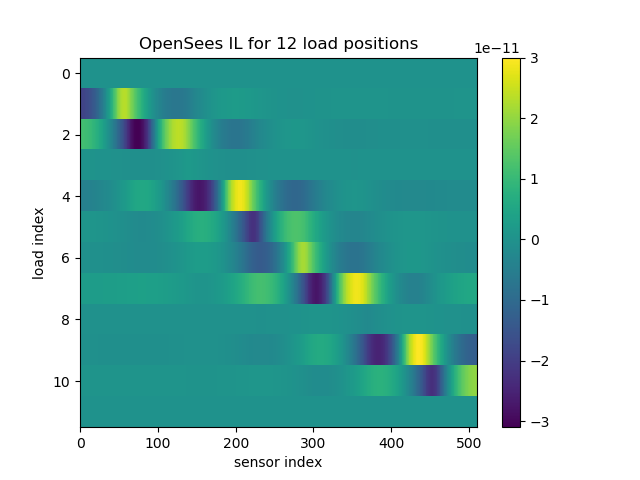
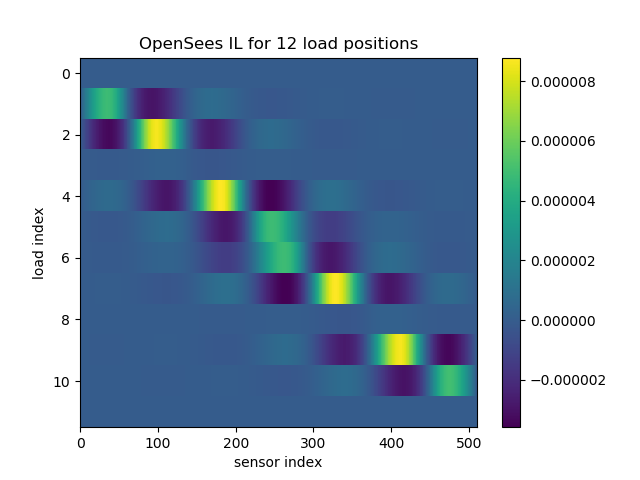
Influence line plots

diff --git a/code/fem/responses/il.py b/code/fem/responses/il.py
@@ -3,7 +3,6 @@ from typing import List
 
 import matplotlib.pyplot as plt
 import numpy as np
-from matplotlib.ticker import ScalarFormatter
 
 from config import bridge_705_config, Config
 from fem.params import ExptParams, FEMParams
@@ -45,14 +44,17 @@ class ILMatrix:
         if id_ in c.il_matrices:
             return c.il_matrices[id_]
 
-        # Else calculate, keep a reference and return.
+        # Determine simulation parameters.
+        # If save_all is true pass all response types.
+        response_types=(
+            [rt for rt in ResponseType] if save_all else [response_type])
         expt_params = ExptParams([
             FEMParams(
                 loads=[Load(x_frac, c.il_unit_load_kn)],
-                # If save_all is true pass all response types.
-                response_types=[rt for rt in ResponseType] if save_all
-                               else [response_type])
+                response_types=response_types)
             for x_frac in np.linspace(0, 1, num_loads)])
+
+        # Calculate ILMatrix, keep a reference and return.
         c.il_matrices[id_] = ILMatrix(c, response_type, load_expt_responses(
             c, expt_params, response_type, fem_runner), fem_runner.name)
         return c.il_matrices[id_]
@@ -68,10 +70,8 @@ class ILMatrix:
             load: float, value of the load.
 
         """
-        print(resp_x_frac)
-        print(load_x_frac)
-        print(load)
         assert 0 <= resp_x_frac and resp_x_frac <= 1
+        assert 0 <= load_x_frac and load_x_frac <= 1
         # Determine load index.
         load_ind = int(np.interp(
             load_x_frac, [0, 1], [0, len(self.expt_responses) - 1]))
@@ -79,65 +79,3 @@ class ILMatrix:
         response = self.expt_responses[load_ind].at(
             x=resp_x_frac, y=y, z=z, t=t)
         return (response.value * (load / self.c.il_unit_load_kn))
-
-    def plot_ils(self, time:int=0, cols:int=3, save=False, show=False):
-        """Plot the influence line for each load position.
-
-        Args:
-            time: int, time index of the simulation.
-            cols: int, amount of plots in a row.
-
-        """
-
-        class ScalarFormatterForceFormat(ScalarFormatter):
-            def _set_format(self):
-                self.format = "%1.1f"
-
-        rows = self.num_loads / cols
-        if rows % 1 != 0:
-            rows += 1
-        rows = int(rows)
-        for load_ind in range(self.num_loads):
-            plt.subplot(rows, cols, load_ind + 1)
-            self.expt_responses[load_ind].plot_x(show=False)
-            plot_bridge_deck_side(self.c.bridge, show=False)
-            name = response_type_name(self.response_type)
-            units = response_type_units(self.response_type)
-            pos = np.interp(
-                load_ind, [0, self.num_loads - 1], [0, self.c.bridge.length])
-            plt.ylabel(f"{name} ({units})")
-            plt.gca().yaxis.set_major_formatter(ScalarFormatterForceFormat())
-            plt.ticklabel_format(style="sci", axis="y", scilimits=(0,0))
-            plt.xlabel("x-axis (m)")
-            plt.title(f"{self.c.il_unit_load_kn}kN load at {pos:.2f}m")
-        plt.gcf().set_size_inches(16, 10)
-        plt.tight_layout()
-        if save:
-            name = response_type_name(self.response_type)
-            plt.savefig(os.path.join(
-                self.c.images_dir,
-                f"il-subplots-{self.fem_runner_name}-{name}" +
-                f"-{len(self.expt_responses)}"))
-        if show: plt.show()
-        if save or show: plt.close()
-
-    def imshow(self, y_frac=0, z_frac=0, t=0, save=False, show=False):
-        """Plot a matrix of influence line for each load position."""
-        matrix = [
-            [fem_responses.at(x_ord=x_ord, y=y_frac, z=z_frac, t=t).value
-             for x_ord in fem_responses.xs]
-            for fem_responses in self.expt_responses]
-        plt.imshow(matrix, aspect="auto")
-        plt.colorbar()
-        plt.ylabel("load index")
-        plt.xlabel("sensor index")
-        name = response_type_name(self.response_type)
-        plt.title(f"{self.fem_runner_name} IL for {len(self.expt_responses)}"
-                  + " load positions")
-        if save:
-            plt.savefig(os.path.join(
-                self.c.images_dir,
-                f"il-imshow-{self.fem_runner_name}-{name}" +
-                f"-{len(self.expt_responses)}"))
-        if show: plt.show()
-        if save or show: plt.close()

diff --git a/code/plot/il.py b/code/plot/il.py
@@ -1,0 +1,78 @@
+"""Plot responses from the IL matrices."""
+import matplotlib.pyplot as plt
+
+from config import Config, bridge_705_config
+from fem.responses.il import ILMatrix
+from fem.run.opensees import os_runner
+from model import *
+from plot import *
+
+
+def plot_il(c: Config, il_matrix: ILMatrix, response_frac: float, num_x: int,
+            save: str=None, show: bool=False):
+    """Plot the IL for a response at some position."""
+    x_fracs = np.linspace(0, 1, num_x)
+    rs = [il_matrix.response(response_frac, x_frac, c.il_unit_load_kn)
+          for x_frac in x_fracs]
+    xs = [c.bridge.x(x_frac) for x_frac in x_fracs]
+    response_ord = response_frac * c.bridge.length
+    response_name = response_type_name(il_matrix.response_type)
+    response_units = response_type_units(il_matrix.response_type)
+    plt.title(f"{response_name.capitalize()} at {response_ord:.2f}m")
+    plt.xlabel(f"{c.il_unit_load_kn}kN load position (m)")
+    plt.ylabel(f"{response_name.capitalize()} at {response_ord:.2f}m"
+               + f"({response_units})")
+    sci_format_y_axis()
+    plt.plot(xs, rs)
+    if save: plt.savefig(save)
+    if show: plt.show()
+    if save or show: plt.close()
+    return rs
+
+
+def plot_ils(c: Config, il_matrix: ILMatrix, rows: int=4, cols:int=3,
+             num_x: int=100, save: str=None, show: bool=False):
+    """Plot the influence line for a number of response positions."""
+    response_name = response_type_name(il_matrix.response_type).capitalize()
+    response_units = response_type_units(il_matrix.response_type)
+    ymin, ymax = 0, 0
+    # Plot each IL and bridge deck side.
+    for i, response_frac in enumerate(np.linspace(0, 1, rows * cols)):
+        plt.subplot(rows, cols, i + 1)
+        rs = plot_il(c, il_matrix, response_frac, num_x=num_x)
+        plot_bridge_deck_side(c.bridge, show=False, equal_axis=False)
+        # Keep track of min and max on y axis (only when non-zero responses).
+        if any(rs):
+            _ymin, _ymax = plt.gca().get_ylim()
+            ymin, ymax = min(ymin, _ymin), max(ymax, _ymax)
+    # Ensure ymin == -ymax.
+    ymin = min(ymin, -ymax)
+    ymax = max(-ymin, ymax)
+    for i, _ in enumerate(np.linspace(0, 1, rows * cols)):
+        plt.subplot(rows, cols, i + 1)
+        plt.ylim(ymin, ymax)
+    plt.gcf().set_size_inches(16, 10)
+    plt.tight_layout()
+    if save: plt.savefig(save)
+    if show: plt.show()
+    if save or show: plt.close()
+
+
+def imshow_il(c: Config, il_matrix: ILMatrix, num_ils: int=10, num_x: int=100,
+              save: str=None, show: bool=False):
+    """Plot a matrix of influence line for multiple response positions."""
+    response_fracs = np.linspace(0, 1, num_ils)
+    x_fracs = np.linspace(0, 1, num_x)
+    matrix = [
+        [il_matrix.response(response_frac, x_frac, c.il_unit_load_kn)
+         for x_frac in x_fracs]
+        for response_frac in response_fracs]
+    plt.imshow(matrix, aspect="auto")
+    plt.colorbar()
+    plt.ylabel("load index")
+    plt.xlabel("sensor index")
+    name = response_type_name(il_matrix.response_type)
+    plt.title(f"{il_matrix.fem_runner_name} influence lines")
+    if save: plt.savefig(save)
+    if show: plt.show()
+    if save or show: plt.close()

diff --git a/code/scripts/make_plots.py b/code/scripts/make_plots.py
@@ -3,7 +3,9 @@ from config import Config, bridge_705_config
 from fem.responses.il import ILMatrix
 from fem.run.opensees import os_runner
 from plot import *
+from plot.il import imshow_il, plot_ils
 from model import *
+from util import *
 
 
 def make_bridge_plots(c: Config):
@@ -23,18 +25,29 @@ def make_bridge_plots(c: Config):
             save=c.image_path(f"bridges/top-{load_str}"))
 
 
-def make_influence_lines(c: Config):
+def make_il_plots(c: Config):
     """Make plots of the influence lines."""
     for response_type in ResponseType:
-        il_matrix = ILMatrix.load(c, response_type, os_runner(c))
-        il_matrix.imshow(save=True)
-        il_matrix.plot_ils(save=True)
+        il_matrix = ILMatrix.load(
+            c, response_type, os_runner(c), num_loads=100)
+        num_ils, num_x = 10, 100
+        imshow_il(c, il_matrix, save=c.image_path(
+            f"ils/il-imshow-{il_matrix.fem_runner_name}"
+            + f"-{response_type_name(response_type)}"
+            + f"-{num_ils}-{num_x}"))
+        rows, cols = 4, 3
+        plot_ils(
+            c, il_matrix, rows=rows, cols=cols,
+            save=c.image_path(
+                f"ils/il-subplots-{il_matrix.fem_runner_name}"
+                + f"-{response_type_name(response_type)}-{rows}-{cols}"))
 
 
 if __name__ == "__main__":
     c = bridge_705_config()
-    make_bridge_plots(c)
-    # gen_influence_lines(c)
+    # clean_generated(c)
+    # make_bridge_plots(c)
+    make_il_plots(c)
     # at_load = 1
     # at_fiber = 0
     # response_type = Response.Stress

diff --git a/code/plot/__init__.py b/code/plot/__init__.py
@@ -10,6 +10,7 @@ import matplotlib.patches as patches
 import matplotlib.pyplot as plt
 import numpy as np
 from matplotlib.animation import FuncAnimation
+from matplotlib.ticker import ScalarFormatter
 from scipy import stats
 
 from model import *
@@ -21,6 +22,15 @@ lane_color = "yellow"
 load_color = "red"
 pier_color = "green"
 rebar_color = "red"
+
+
+def sci_format_y_axis():
+    """Format an axis' ticks in scientific style."""
+    class ScalarFormatterForceFormat(ScalarFormatter):
+        def _set_format(self):
+            self.format = "%1.1f"
+    plt.gca().yaxis.set_major_formatter(ScalarFormatterForceFormat())
+    plt.ticklabel_format(style="sci", axis="y", scilimits=(0,0))
 
 
 def _plot_load_deck_side(bridge: Bridge, load: Load):
@@ -35,7 +45,7 @@ def _plot_load_deck_side(bridge: Bridge, load: Load):
 
 
 def plot_bridge_deck_side(bridge: Bridge, loads: List[Load]=[], save: str=None,
-                          show: bool=False):
+                          show: bool=False, equal_axis: bool=True):
     """Plot the deck of a bridge from the side with optional loads."""
     plt.hlines(0, 0, bridge.length, color=bridge_color)
     plt.plot(
@@ -44,7 +54,7 @@ def plot_bridge_deck_side(bridge: Bridge, loads: List[Load]=[], save: str=None,
         "o", color=pier_color)
     for load in loads:
         _plot_load_deck_side(bridge, load)
-    plt.axis("equal")
+    if equal_axis: plt.axis("equal")
     if save: plt.savefig(save)
     if show: plt.show()
     if save or show: plt.close()

diff --git a/code/fem/responses/__init__.py b/code/fem/responses/__init__.py
@@ -58,6 +58,7 @@ class FEMResponses:
             self.responses[r.time][r.point.x][r.point.y][r.point.z] = r
 
         # Convert nested dictionaries to sorted lists at leaves.
+        # This allows for conversion from an index to an ordinate.
         self.times = sorted(self.responses.keys())
         points = self.responses[self.times[0]]
         self.xs = sorted(points.keys())
@@ -71,19 +72,27 @@ class FEMResponses:
         assert 0 <= x and x <= 1
         assert 0 <= y and y <= 1
         assert 0 <= z and z <= 1
+        # print(f"({x}, {y}, {z}) ({x_ord}, {y_ord}, {z_ord}) t={time}")
+
+        # Convert to x ordinate if necessary.
         if x_ord is None:
             x_ind = int(np.interp(x, [0, 1], [0, len(self.xs) - 1]))
             x_ord = self.xs[x_ind]
+
+        # Convert to y ordinate if necessary.
         if y_ord is None:
             y_ind = int(np.interp(y, [0, 1], [0, len(self.ys[x_ord]) - 1]))
             y_ord = self.ys[x_ord][y_ind]
+
+        # Convert to z ordinate if necessary.
         if z_ord is None:
             z_ind = int(
                 np.interp(z, [0, 1], [0, len(self.zs[x_ord][y_ord]) - 1]))
             z_ord = self.zs[x_ord][y_ord][z_ind]
+
         if time is None:
             time = self.times[t]
-        # print(f"({x}, {y}, {z}) ({x_ord}, {y_ord}, {z_ord}) t={time}")
+
         return self.responses[time][x_ord][y_ord][z_ord]
 
     def save(self, c: Config):

diff --git a/code/fem/responses/test_il.py b/code/fem/responses/test_il.py
@@ -8,7 +8,6 @@ from fem.run.opensees import os_runner
 from model import *
 
 
-reset_model_ids()
 c = bridge_705_config()
 path = os.path.join(c.generated_dir,
     "responses/responses-pa-[(0.00, 1000.00)]-rt-XTranslation-ru-OpenSees.npy")
@@ -43,15 +42,16 @@ def test_os_il_matrices():
     start = timer()
     ILMatrix.load(c, response_type, fem_runner, num_loads=1, save_all=True)
     time = timer() - start
-    assert 2 < time and time < 3
+    assert 2 < time and time < 3.5
 
 
 def test_load_all_os_matrices():
     c.il_matrices = dict()
     # Should run fast after the first time (may also be fast).
+    # The second time should only require loading from disk.
     ILMatrix.load(c, ResponseType.Strain, os_runner(c))
     c.il_matrices = dict()
     start = timer()
     ILMatrix.load(c, ResponseType.Strain, os_runner(c))
     time = timer() - start
-    assert 1.5 < time and time < 2.5
+    assert 1.5 < time and time < 3

diff --git a/code/model.py b/code/model.py
@@ -260,8 +260,8 @@ def response_type_units(response_type: ResponseType, short: bool=True):
     return {
         ResponseType.XTranslation: ("meters", "m"),
         ResponseType.YTranslation: ("meters", "m"),
-        ResponseType.Stress: ("kilograms", "kgs"),
-        ResponseType.Strain: ("kilograms", "kgs")
+        ResponseType.Stress: ("kilo newton", "kN"),
+        ResponseType.Strain: ("kilo newton", "kN")
     }[response_type][int(short)]
 
 
@@ -276,6 +276,8 @@ class Section:
 
 
 def reset_model_ids():
+    """Call this before constructing a bridge/loads etc.."""
+    global _fiber_cmd_id
     _fiber_cmd_id = 1
     Section.next_id = 1
 

diff --git a/code/fem/responses/test_responses.py b/code/fem/responses/test_responses.py
@@ -7,11 +7,11 @@ from fem.params import FEMParams
 from fem.responses import fem_responses_path, load_fem_responses
 from fem.run.opensees import os_runner
 from model import *
+from util import *
 
 
 def test_fem_responses():
     # Setup.
-    reset_model_ids()
     c = bridge_705_config()
     fem_params = FEMParams([Load(0.1, 1000)])
     response_type = ResponseType.XTranslation

diff --git a/code/config.py b/code/config.py
@@ -3,7 +3,7 @@ import os
 
 import numpy as np
 
-from model import bridge_705
+from model import bridge_705, reset_model_ids
 
 
 class Config:
@@ -95,4 +95,5 @@ class Config:
 
 
 def bridge_705_config() -> Config:
+    reset_model_ids()
     return Config(bridge_705())

diff --git a/code/fem/run/opensees/test_opensees.py b/code/fem/run/opensees/test_opensees.py
@@ -9,7 +9,6 @@ from model import *
 
 def test_build():
     # Config.
-    reset_model_ids()
     c = bridge_705_config()
     c.bridge.length = 10
     c.os_node_step = 0.5
